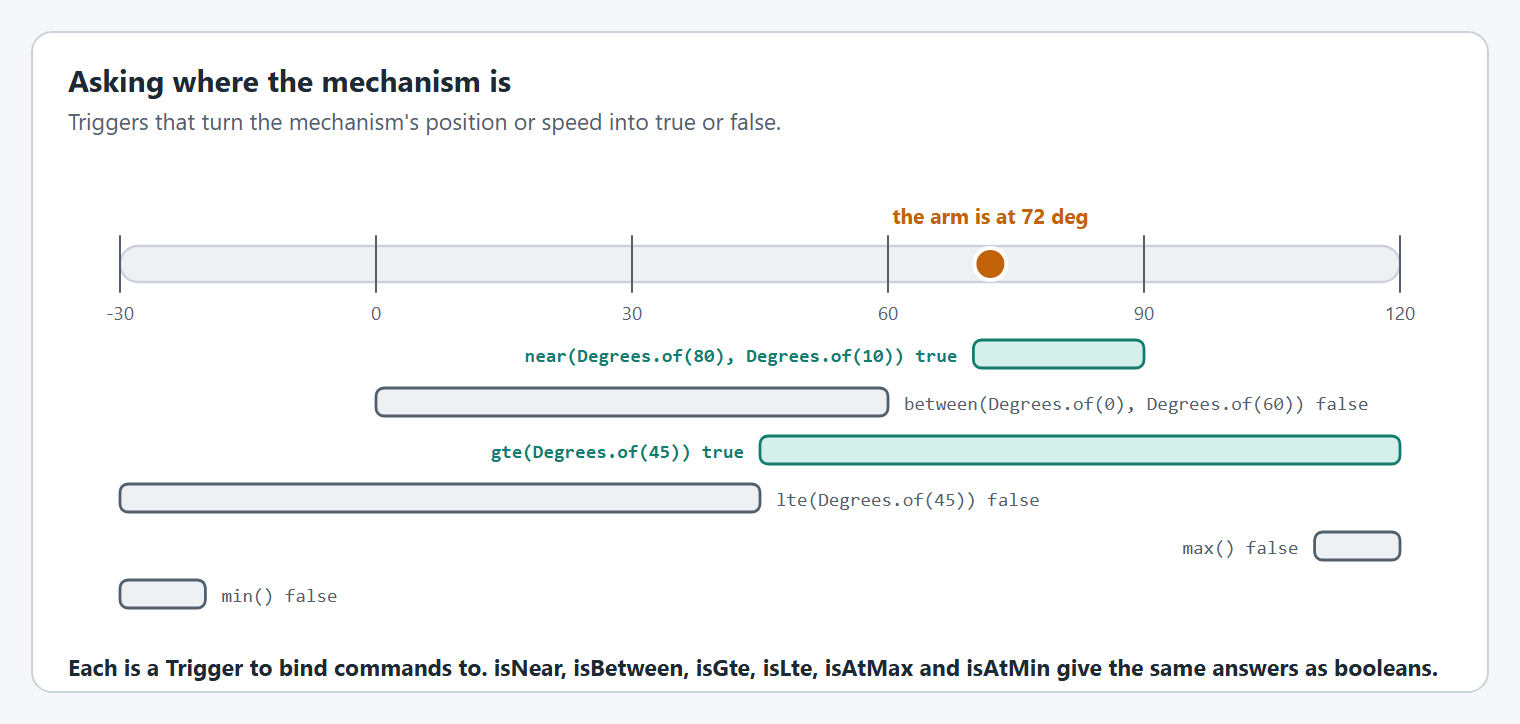
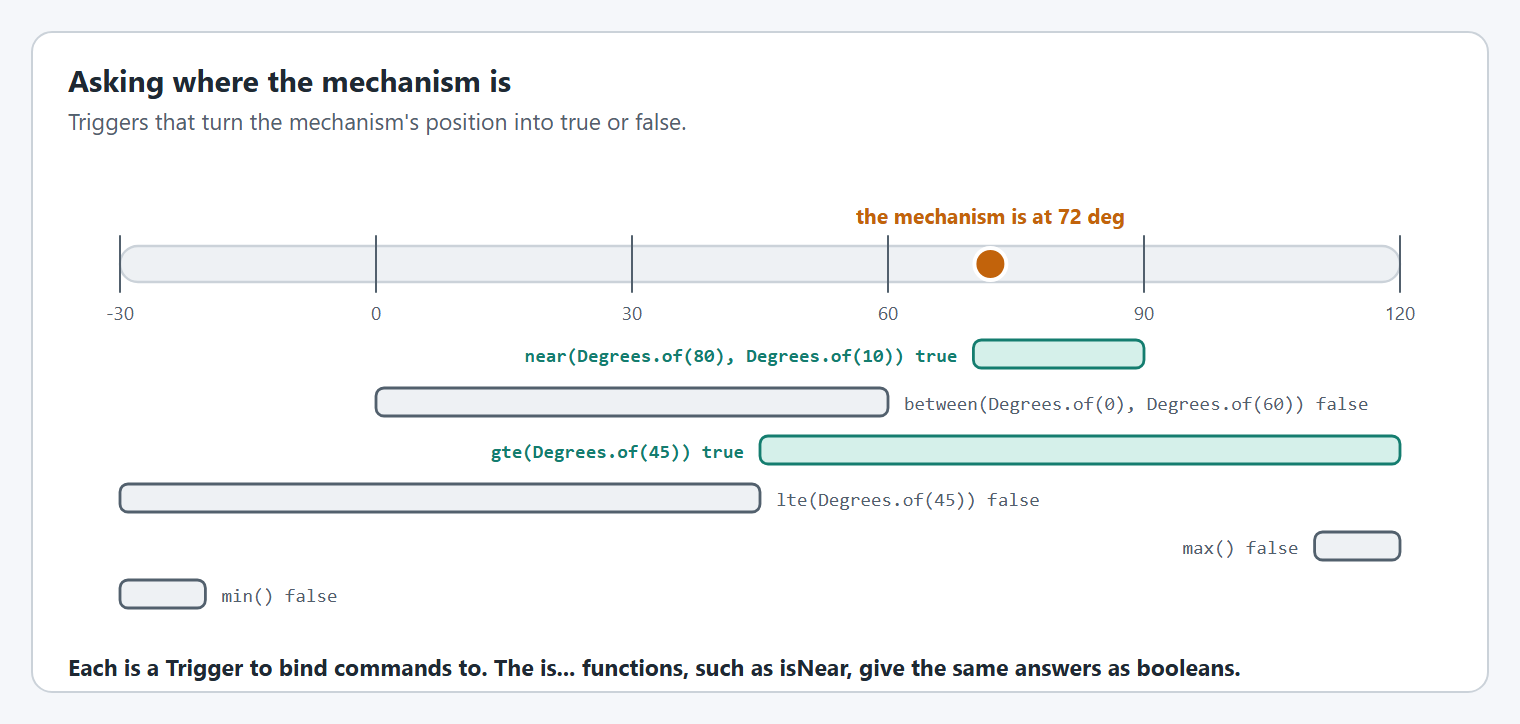
Mechanism pages: a position graphic for each kind of mechanism
The asking-where-it-is graphic for arms and pivots now says mechanism instead of arm, and
elevators and flywheels have their own, in meters and in RPM.

Changed region(s): [[0.3092, 0.9116, 0.9586, 0.942], [0.5566, 0.2735, 0.7421, 0.3343], [0.3401, 0.1519, 0.5257, 0.1823]]

diff --git a/details/shooters.md b/details/shooters.md
@@ -186,7 +186,7 @@ These do not require the subsystem or mechanism, so nothing stops two callers fi
 
 ## Asking where it is
 
-<figure><img src="../.gitbook/assets/mech-triggers.png" alt="A number line from minus 30 to 120 degrees with an arm at 72 degrees. near 80 within 10 is true. between 0 and 60 is false. gte 45 is true. lte 45 is false. max and min, at the ends of the travel, are false. Each is a Trigger, and isNear, isBetween, isGte, isLte, isAtMax and isAtMin return the same answers as booleans."><figcaption><p>The same questions as Triggers or as booleans.</p></figcaption></figure>
+<figure><img src="../.gitbook/assets/mech-triggers-flywheel.png" alt="A number line from 0 to 5000 RPM with a flywheel at 2960 RPM. near 3000 RPM within 100 is true. between 500 and 2000 RPM is false. gte 2500 RPM is true. lte 2500 RPM is false. A flywheel has no max or min. Each is a Trigger, and the is functions such as isNear give the same answers as booleans."><figcaption><p>The same questions as Triggers or as booleans.</p></figcaption></figure>
 
 | As a `Trigger` | As a boolean | True when |
 | --- | --- | --- |
@@ -194,7 +194,7 @@ These do not require the subsystem or mechanism, so nothing stops two callers fi
 | `between(start, end)` | `isBetween(start, end)` | The wheel's speed is between the two. |
 | `gte(speed)`, `lte(speed)` | `isGte(speed)`, `isLte(speed)` | The wheel is at or above, or at or below, the speed. |
 
-`getSpeed()` returns the wheel's speed and `getLinearVelocity()` its surface speed. A flywheel has no `max()` or `min()`, because it has no end to its travel. The graphic above shows an arm, and a flywheel works the same way with speeds.
+`getSpeed()` returns the wheel's speed and `getLinearVelocity()` its surface speed. A flywheel has no `max()` or `min()`, because it has no end to its travel.
 
 ```java
 shooter.near(RPM.of(3000), RPM.of(50)).whileTrue(feeder.feed()); // only feed at speed

diff --git a/details/elevators.md b/details/elevators.md
@@ -192,7 +192,7 @@ These do not require the subsystem or mechanism, so nothing stops two callers fi
 
 ## Asking where it is
 
-<figure><img src="../.gitbook/assets/mech-triggers.png" alt="A number line from minus 30 to 120 degrees with an arm at 72 degrees. near 80 within 10 is true. between 0 and 60 is false. gte 45 is true. lte 45 is false. max and min, at the ends of the travel, are false. Each is a Trigger, and isNear, isBetween, isGte, isLte, isAtMax and isAtMin return the same answers as booleans."><figcaption><p>The same questions as Triggers or as booleans.</p></figcaption></figure>
+<figure><img src="../.gitbook/assets/mech-triggers-elevator.png" alt="A number line from 0 to 1.5 meters with an elevator at 1.18 meters. near 1.2 meters within 5 centimeters is true. between 0.25 and 0.75 meters is false. gte 0.5 meters is true. lte 0.5 meters is false. max and min, at the top and bottom of the travel, are false. Each is a Trigger, and the is functions such as isNear give the same answers as booleans."><figcaption><p>The same questions as Triggers or as booleans.</p></figcaption></figure>
 
 | As a `Trigger` | As a boolean | True when |
 | --- | --- | --- |
@@ -201,7 +201,7 @@ These do not require the subsystem or mechanism, so nothing stops two callers fi
 | `gte(height)`, `lte(height)` | `isGte(height)`, `isLte(height)` | The elevator is at or above, or at or below, the height. |
 | `max()`, `min()` | `isAtMax()`, `isAtMin()` | The elevator is at its soft limit, or its hard limit if no soft limit is set. |
 
-`getHeight()` returns the current height and `getVelocity()` its speed. The graphic above shows an arm, and an elevator works the same way with heights.
+`getHeight()` returns the current height and `getVelocity()` its speed.
 
 ```java
 elevator.near(Meters.of(1.2), Centimeters.of(2)).onTrue(intake.eject());

diff --git a/details/arms.md b/details/arms.md
@@ -192,7 +192,7 @@ These do not require the subsystem or mechanism, so nothing stops two callers fi
 
 ## Asking where it is
 
-<figure><img src="../.gitbook/assets/mech-triggers.png" alt="A number line from minus 30 to 120 degrees with an arm at 72 degrees. near 80 within 10 is true. between 0 and 60 is false. gte 45 is true. lte 45 is false. max and min, at the ends of the travel, are false. Each is a Trigger, and isNear, isBetween, isGte, isLte, isAtMax and isAtMin return the same answers as booleans."><figcaption><p>The same questions as Triggers or as booleans.</p></figcaption></figure>
+<figure><img src="../.gitbook/assets/mech-triggers.png" alt="A number line from minus 30 to 120 degrees with a mechanism at 72 degrees. near 80 within 10 is true. between 0 and 60 is false. gte 45 is true. lte 45 is false. max and min, at the ends of the travel, are false. Each is a Trigger, and the is functions such as isNear give the same answers as booleans."><figcaption><p>The same questions as Triggers or as booleans.</p></figcaption></figure>
 
 | As a `Trigger` | As a boolean | True when |
 | --- | --- | --- |

diff --git a/details/turrets-wrists.md b/details/turrets-wrists.md
@@ -190,7 +190,7 @@ These do not require the subsystem or mechanism, so nothing stops two callers fi
 
 ## Asking where it is
 
-<figure><img src="../.gitbook/assets/mech-triggers.png" alt="A number line from minus 30 to 120 degrees with an arm at 72 degrees. near 80 within 10 is true. between 0 and 60 is false. gte 45 is true. lte 45 is false. max and min, at the ends of the travel, are false. Each is a Trigger, and isNear, isBetween, isGte, isLte, isAtMax and isAtMin return the same answers as booleans."><figcaption><p>The same questions as Triggers or as booleans.</p></figcaption></figure>
+<figure><img src="../.gitbook/assets/mech-triggers.png" alt="A number line from minus 30 to 120 degrees with a mechanism at 72 degrees. near 80 within 10 is true. between 0 and 60 is false. gte 45 is true. lte 45 is false. max and min, at the ends of the travel, are false. Each is a Trigger, and the is functions such as isNear give the same answers as booleans."><figcaption><p>The same questions as Triggers or as booleans.</p></figcaption></figure>
 
 | As a `Trigger` | As a boolean | True when |
 | --- | --- | --- |
